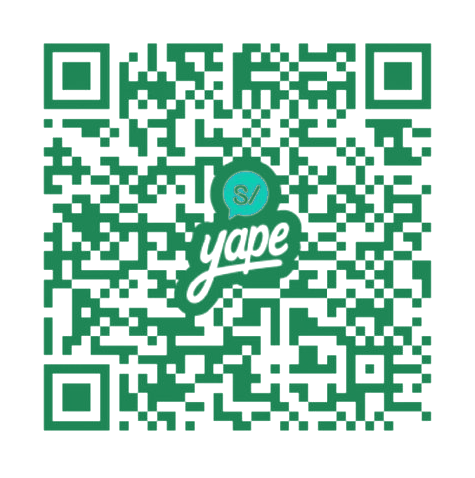
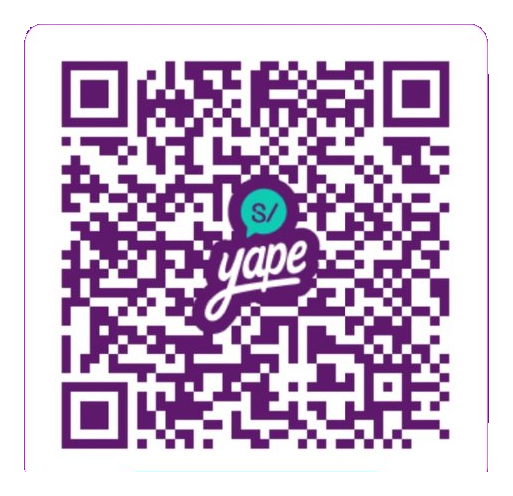
[Mejora] diseno oficial y original de codigo QR Yape y datos del autor

diff --git a/static/index.html b/static/index.html
@@ -1164,10 +1164,10 @@
                             <h3 class="text-base font-bold text-[#102D25]">Autor y Créditos</h3>
                         </div>
                         <div class="text-xs text-[#1E3A34] leading-relaxed space-y-2.5">
-                            <div class="p-3 rounded-xl bg-[#F4F7F5] border border-slate-200">
+                            <div class="p-3.5 rounded-xl bg-[#F4F7F5] border border-slate-200">
                                 <span class="text-[11px] font-bold text-[#64748B] uppercase tracking-wider block">Desarrollador y Creador</span>
-                                <span class="text-base font-black text-[#102D25] block mt-0.5">RQ</span>
-                                <a href="mailto:raulquintanazinc@gmail.com" class="text-xs text-[#087A45] font-semibold hover:underline flex items-center space-x-1.5 mt-1">
+                                <span class="text-base font-black text-[#102D25] block mt-1">Raúl Quintana</span>
+                                <a href="mailto:raulquintanazinc@gmail.com" class="text-xs text-[#087A45] font-semibold hover:underline inline-flex items-center space-x-1.5 mt-1.5">
                                     <i data-lucide="mail" class="w-3.5 h-3.5"></i>
                                     <span>raulquintanazinc@gmail.com</span>
                                 </a>
@@ -1218,11 +1218,11 @@
                     </div>
 
                     <!-- Derecha: Recuadro del Código QR Interactivo con Zoom Modal -->
-                    <div class="flex flex-col items-center p-4 rounded-2xl bg-white border border-emerald-200 shadow-md flex-shrink-0 text-center w-52">
-                        <div onclick="openQrModal()" title="Clic para ampliar código QR" class="w-36 h-36 rounded-xl bg-slate-50 border border-slate-200 p-1.5 flex items-center justify-center relative overflow-hidden group cursor-pointer shadow-sm hover:border-[#087A45] hover:shadow-md transition-all">
+                    <div class="flex flex-col items-center p-4 rounded-2xl bg-white border border-slate-200 shadow-sm flex-shrink-0 text-center w-52">
+                        <div onclick="openQrModal()" title="Clic para ampliar código QR" class="w-36 h-36 rounded-xl bg-white border border-slate-200 p-1 flex items-center justify-center relative overflow-hidden group cursor-pointer shadow-sm hover:border-[#742284] hover:shadow-md transition-all">
                             <img id="qr-support-img" src="/static/qr_donacion.png" alt="Código QR Yape" 
                                 class="w-full h-full object-contain rounded-lg">
-                            <div class="absolute inset-0 bg-black/45 opacity-0 group-hover:opacity-100 flex flex-col items-center justify-center text-white text-[11px] font-bold transition-opacity rounded-lg">
+                            <div class="absolute inset-0 bg-[#102D25]/60 opacity-0 group-hover:opacity-100 flex flex-col items-center justify-center text-white text-[11px] font-bold transition-opacity rounded-lg">
                                 <i data-lucide="zoom-in" class="w-6 h-6 mb-1 text-white"></i>
                                 <span>Ampliar QR</span>
                             </div>
@@ -1230,8 +1230,8 @@
                         <div class="mt-2.5 text-center w-full">
                             <span class="text-xs font-black text-[#102D25] block">Escanear para Apoyar</span>
                             <span class="text-[10px] text-[#64748B] block mt-0.5">Yape &middot; Plin &middot; Billeteras</span>
-                            <button onclick="openQrModal()" class="mt-2 w-full py-1 rounded-lg bg-emerald-50 hover:bg-emerald-100 text-[#087A45] text-[11px] font-bold border border-emerald-200 transition-colors flex items-center justify-center space-x-1 cursor-pointer">
-                                <i data-lucide="maximize-2" class="w-3.5 h-3.5"></i>
+                            <button onclick="openQrModal()" class="mt-2 w-full py-1.5 rounded-lg bg-[#F4F7F5] hover:bg-slate-200/70 text-[#102D25] text-[11px] font-bold border border-slate-200 transition-colors flex items-center justify-center space-x-1 cursor-pointer">
+                                <i data-lucide="maximize-2" class="w-3.5 h-3.5 text-[#087A45]"></i>
                                 <span>Ver de cerca</span>
                             </button>
                         </div>
@@ -1405,23 +1405,25 @@
                 <i data-lucide="x" class="w-4 h-4"></i>
             </button>
 
-            <!-- Encabezado con branding de Yape -->
+            <!-- Encabezado con branding oficial de Yape -->
             <div class="mb-4">
-                <div class="inline-flex items-center space-x-1.5 px-3 py-1 rounded-full bg-emerald-50 text-[#087A45] text-xs font-bold border border-emerald-200 mb-2">
-                    <i data-lucide="smartphone" class="w-3.5 h-3.5 text-[#087A45]"></i>
+                <div class="inline-flex items-center space-x-1.5 px-3 py-1 rounded-full bg-[#742284]/10 text-[#742284] text-xs font-bold border border-[#742284]/20 mb-2">
+                    <i data-lucide="smartphone" class="w-3.5 h-3.5 text-[#742284]"></i>
                     <span>Yape &middot; Billetera Digital</span>
                 </div>
-                <h3 class="text-lg font-black text-[#102D25]">Escanear para Donar</h3>
-                <p class="text-xs text-[#087A45] mt-0.5 font-bold">RQ &middot; <a href="mailto:raulquintanazinc@gmail.com" class="hover:underline">raulquintanazinc@gmail.com</a></p>
+                <h3 class="text-xl font-black text-[#102D25]">Escanear para Donar</h3>
+                <p class="text-xs text-[#64748B] mt-1 font-semibold">
+                    Raúl Quintana &middot; <a href="mailto:raulquintanazinc@gmail.com" class="text-[#087A45] hover:underline font-bold">raulquintanazinc@gmail.com</a>
+                </p>
             </div>
 
             <!-- Imagen QR en Grande y Nítida -->
-            <div class="p-3 bg-white rounded-2xl shadow-lg border-2 border-emerald-500/30 mx-auto max-w-[270px]">
-                <img src="/static/qr_donacion.png" alt="Código QR Yape en Alta Resolución" class="w-full h-auto rounded-xl shadow-sm object-contain">
+            <div class="p-3 bg-white rounded-2xl shadow-xl border border-slate-200 mx-auto max-w-[280px]">
+                <img src="/static/qr_donacion.png" alt="Código QR Yape en Alta Resolución" class="w-full h-auto rounded-xl object-contain">
             </div>
 
-            <p class="text-[11px] text-[#64748B] mt-4 font-medium leading-relaxed">
-                Abre <strong class="text-[#087A45]">Yape</strong> desde tu celular y apunta con la cámara hacia este código para apoyar el proyecto.
+            <p class="text-xs text-[#64748B] mt-4 font-medium leading-relaxed max-w-xs mx-auto">
+                Abre la aplicación <strong class="text-[#742284] font-bold">Yape</strong> desde tu celular y apunta hacia este código para apoyar el proyecto.
             </p>
 
             <!-- Botón Cerrar -->
